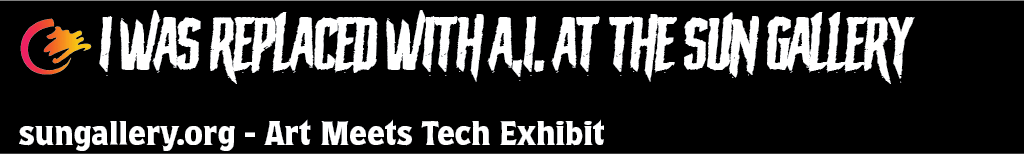
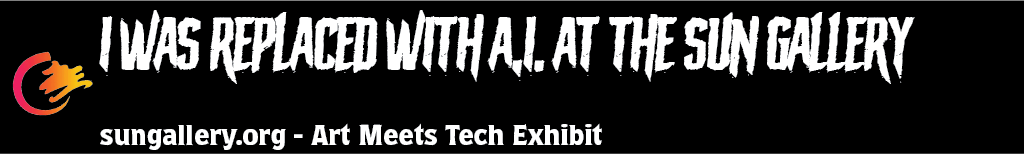
- typo in website URL - redo layout on image badge

Changed region(s): [[0.0, 0.7792, 0.5938, 0.987], [0.0, 0.1299, 0.0938, 0.7532]]

diff --git a/src/states.ts b/src/states.ts
@@ -89,8 +89,8 @@ export class StateMachine {
       hideVideo: false,
       showStatus: true,
       useCountdown: false,
-      getStatusMessage: () => { return `${this.currentFilename ? `Find the last photo at <span class="prompt-text">www.aiwillreplaceyou.com/${this.currentFilename}</span>` :
-          `Photos will be available at <span class="prompt-text">www.aiwillreplaceyou.com</span>`}`; }
+      getStatusMessage: () => { return `${this.currentFilename ? `Find the last photo at <span class="prompt-text">www.aiwillreplaceu.com/${this.currentFilename}</span>` :
+          `Photos will be available at <span class="prompt-text">www.aiwillreplaceu.com</span>`}`; }
     },
     {
       name: 'prompt input',

diff --git a/src/utils/compositing.ts b/src/utils/compositing.ts
@@ -16,7 +16,7 @@ export const createFinalOutput = (video: HTMLVideoElement, mask: ImageData, text
       ctx.drawImage(TAGLINE_IMG, 0, video.videoHeight);
       ctx.fillStyle = 'white';
       ctx.font = '26px Adobe Clean';
-      ctx.fillText(`by ${prompt}`, 20, video.videoHeight + 105, finalcanvas.width);
+      ctx.fillText(`by ${prompt}`, 100, video.videoHeight + 105, finalcanvas.width);
     }
   }
   return finalcanvas;
